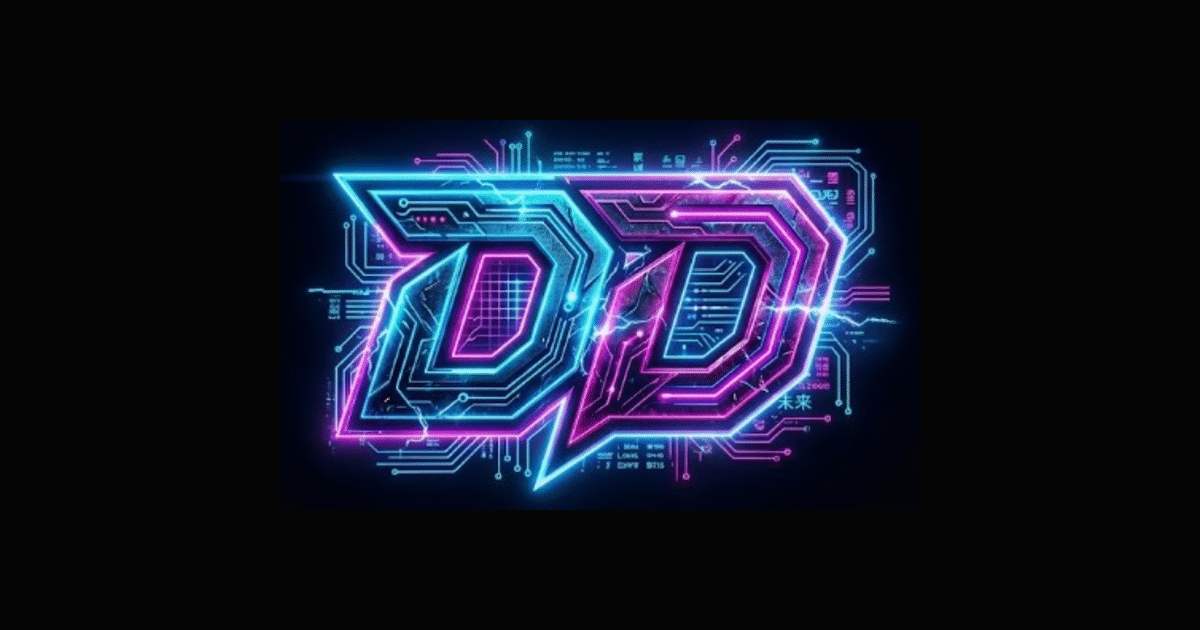
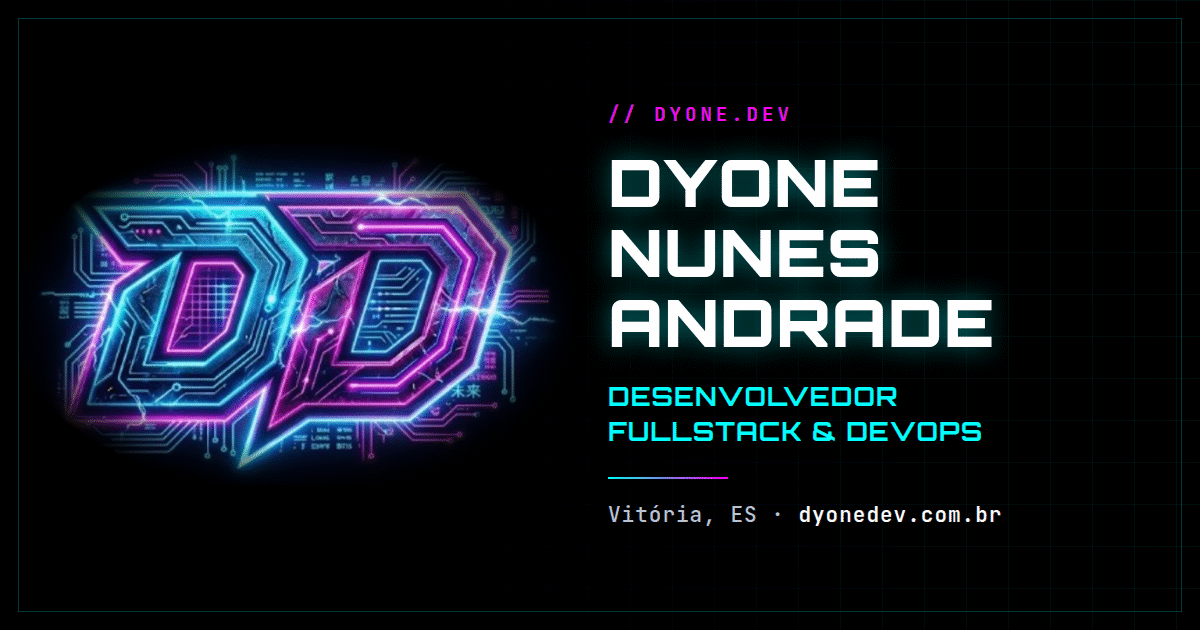
feat: imagem de preview com nome e cargo
A og-image era só o logo DD. Agora traz o nome, o cargo, a cidade e o
domínio ao lado do logo, nas fontes e cores do site, e o texto
alternativo descreve a imagem nova.

diff --git a/index.html b/index.html
@@ -29,7 +29,7 @@
     <meta property="og:image:type" content="image/png" />
     <meta property="og:image:width" content="1200" />
     <meta property="og:image:height" content="630" />
-    <meta property="og:image:alt" content="Logo neon DD de Dyone Dev" />
+    <meta property="og:image:alt" content="Dyone Nunes Andrade — Desenvolvedor Fullstack e DevOps, com o logo neon DD" />
     <meta property="og:locale" content="pt_BR" />
     <meta name="twitter:card" content="summary_large_image" />
     <meta name="twitter:title" content="Dyone Nunes Andrade | Desenvolvedor Fullstack e DevOps" />
@@ -38,7 +38,7 @@
       content="Desenvolvedor Fullstack e DevOps em Vitória, ES. Python, React, Docker e PostgreSQL em SaaS, infraestrutura e experiências 3D interativas."
     />
     <meta name="twitter:image" content="https://dyonedev.com.br/og-image.png" />
-    <meta name="twitter:image:alt" content="Logo neon DD de Dyone Dev" />
+    <meta name="twitter:image:alt" content="Dyone Nunes Andrade — Desenvolvedor Fullstack e DevOps, com o logo neon DD" />
     <!-- Favicon (gerado a partir de public/logo.jpeg) -->
     <link rel="icon" href="/favicon.ico" sizes="48x48" />
     <link rel="icon" type="image/png" sizes="32x32" href="/favicon-32.png" />
